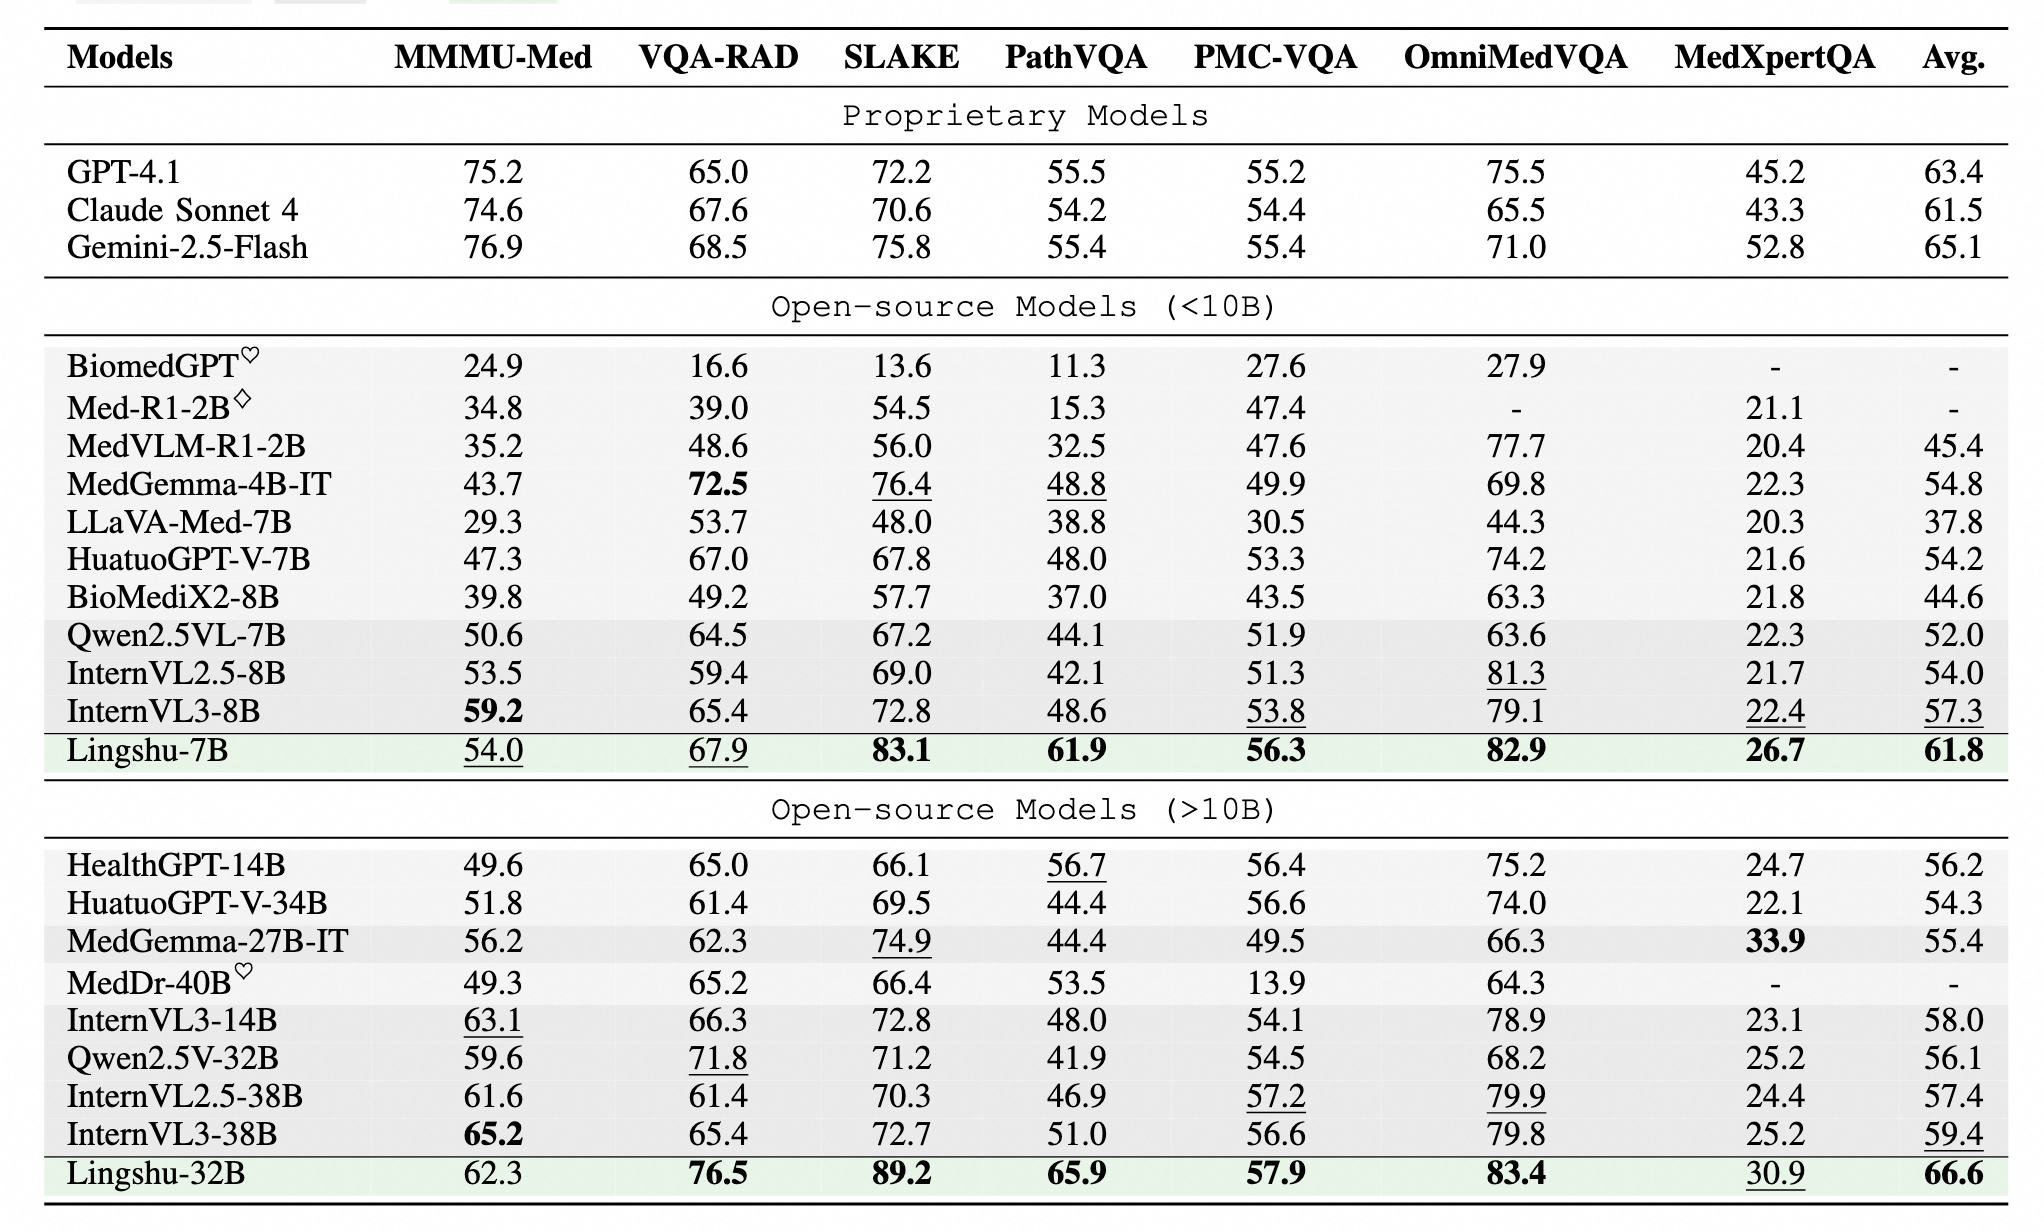
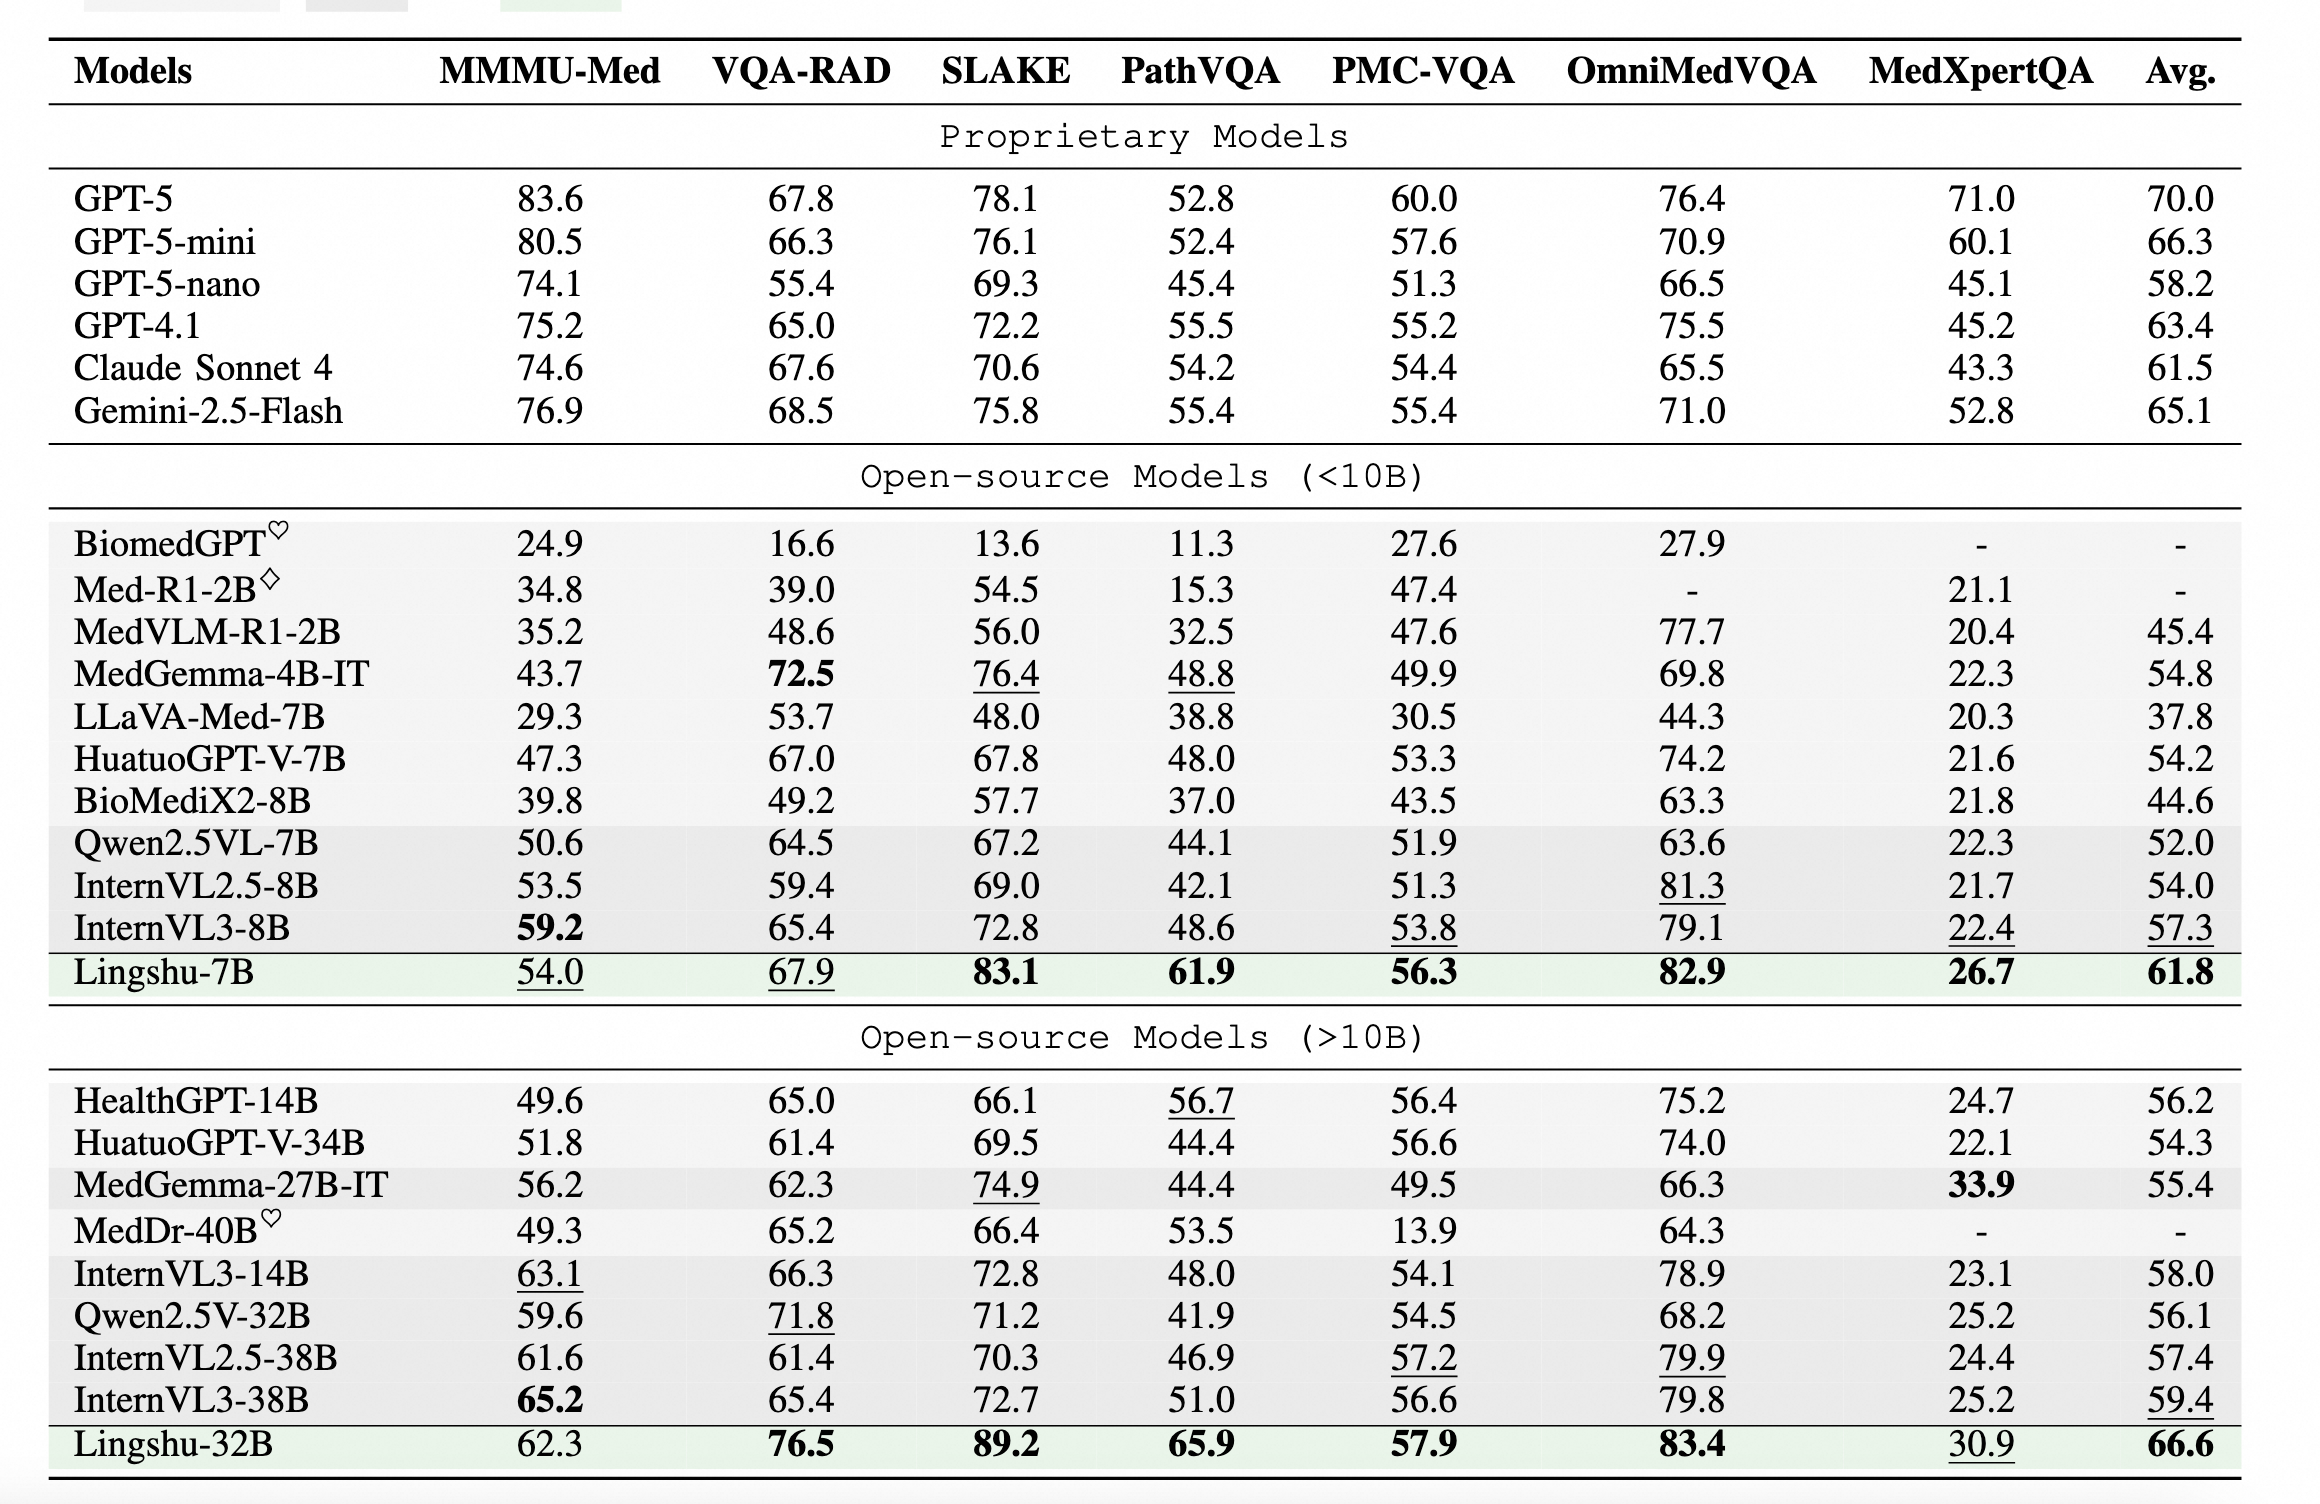
update gpt-5-result

Changed region(s): [[0.0308, 0.0, 0.9863, 0.987]]

diff --git a/utils/Radrestruct/Radrestruct.py b/utils/Radrestruct/Radrestruct.py
@@ -27,7 +27,8 @@ class Radrestruct(BaseDataset):
     
     def load_data(self):
         dataset_path = self.dataset_path
-        with open(dataset_path, "r") as f:
+        json_path = os.path.join(dataset_path,"testset.json")
+        with open(json_path, "r") as f:
             dataset = json.load(f)
 
         # ['index', 'Figure_path', 'Caption', 'Question', 'Choice A', 'Choice B', 'Choice C', 'Choice D', 'Answer', 'split']
